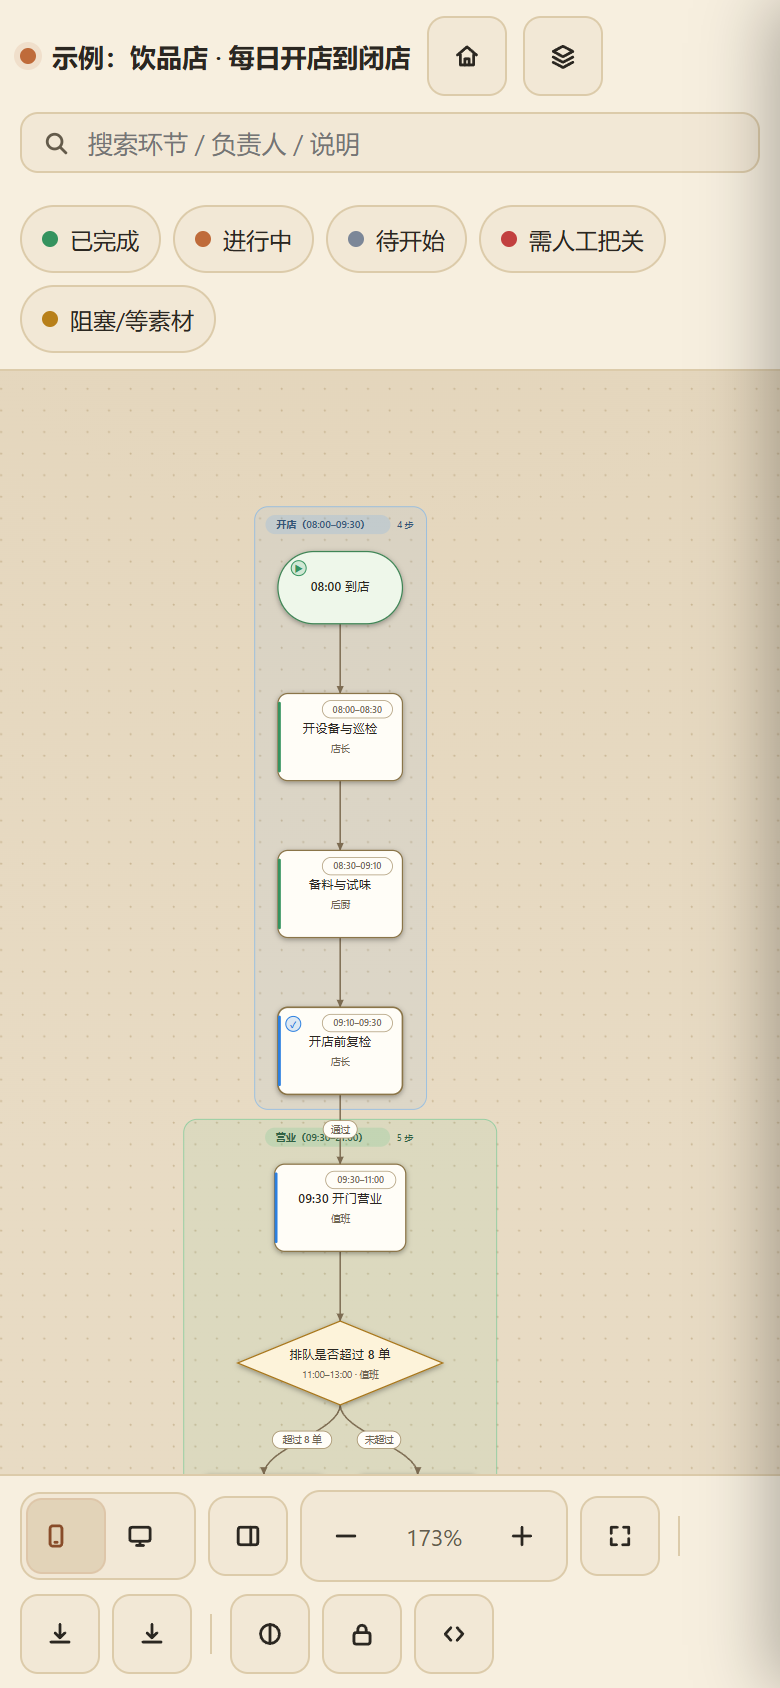
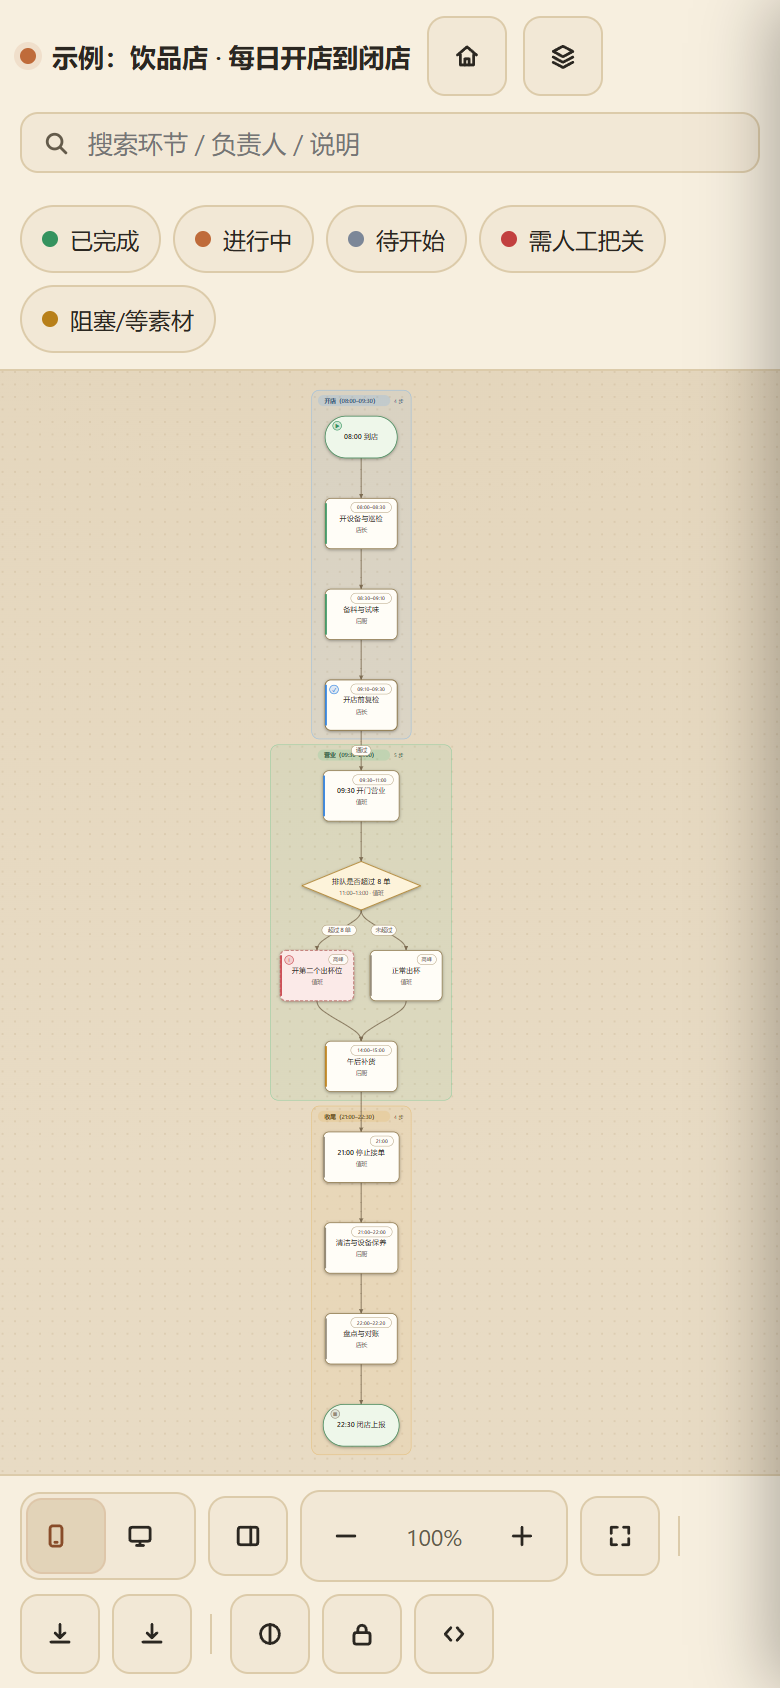
docs(readme): 加 CI/许可/Node 徽章与在线演示链接；手机竖版截图改为「一键适配」整幅视图

Changed region(s): [[0.3077, 0.2156, 0.5846, 0.8626], [0.5231, 0.8934, 0.5538, 0.9242]]

diff --git a/README.md b/README.md
@@ -1,10 +1,12 @@
 # workflow-visualizer
 
+[![CI](https://github.com/jimku233/workflow-visualizer/actions/workflows/ci.yml/badge.svg)](https://github.com/jimku233/workflow-visualizer/actions/workflows/ci.yml) [![MIT](https://img.shields.io/badge/license-MIT-blue.svg)](LICENSE) ![Node](https://img.shields.io/badge/node-%E2%89%A518-brightgreen)
+
 把**业务流程**变成能点、能搜、能导出的**交互式流程图**：一个 HTML 文件搞定，零依赖、纯离线（不请求任何 CDN、不联网），同时产出可以粘进飞书 / 语雀 / GitHub / Typora 的 **Mermaid 源码**。
 
 本仓库根目录**就是** [Agent Skill](https://code.claude.com/docs/en/skills) 目录（`SKILL.md` 在根上），`git clone` 到技能发现路径即可用。
 
-想先看效果：把 [`docs/demo.html`](docs/demo.html) **下载到本地再双击**（GitHub 网页上点开只会显示源码，不会渲染）。它是用 `examples/` 里的中性示例渲染出来的完整产物，单文件、离线可开。
+**想先看效果** → 在线版：<https://jimku233.github.io/workflow-visualizer/>（点开就能点节点、搜索、切竖/横版）。离线看：把 [`docs/demo.html`](docs/demo.html) **下载到本地再双击**（GitHub 网页上点开只会显示源码，不会渲染）。
 
 | 手机 · 竖版（浅色） | 电脑 · 横版（深色） |
 |---|---|
